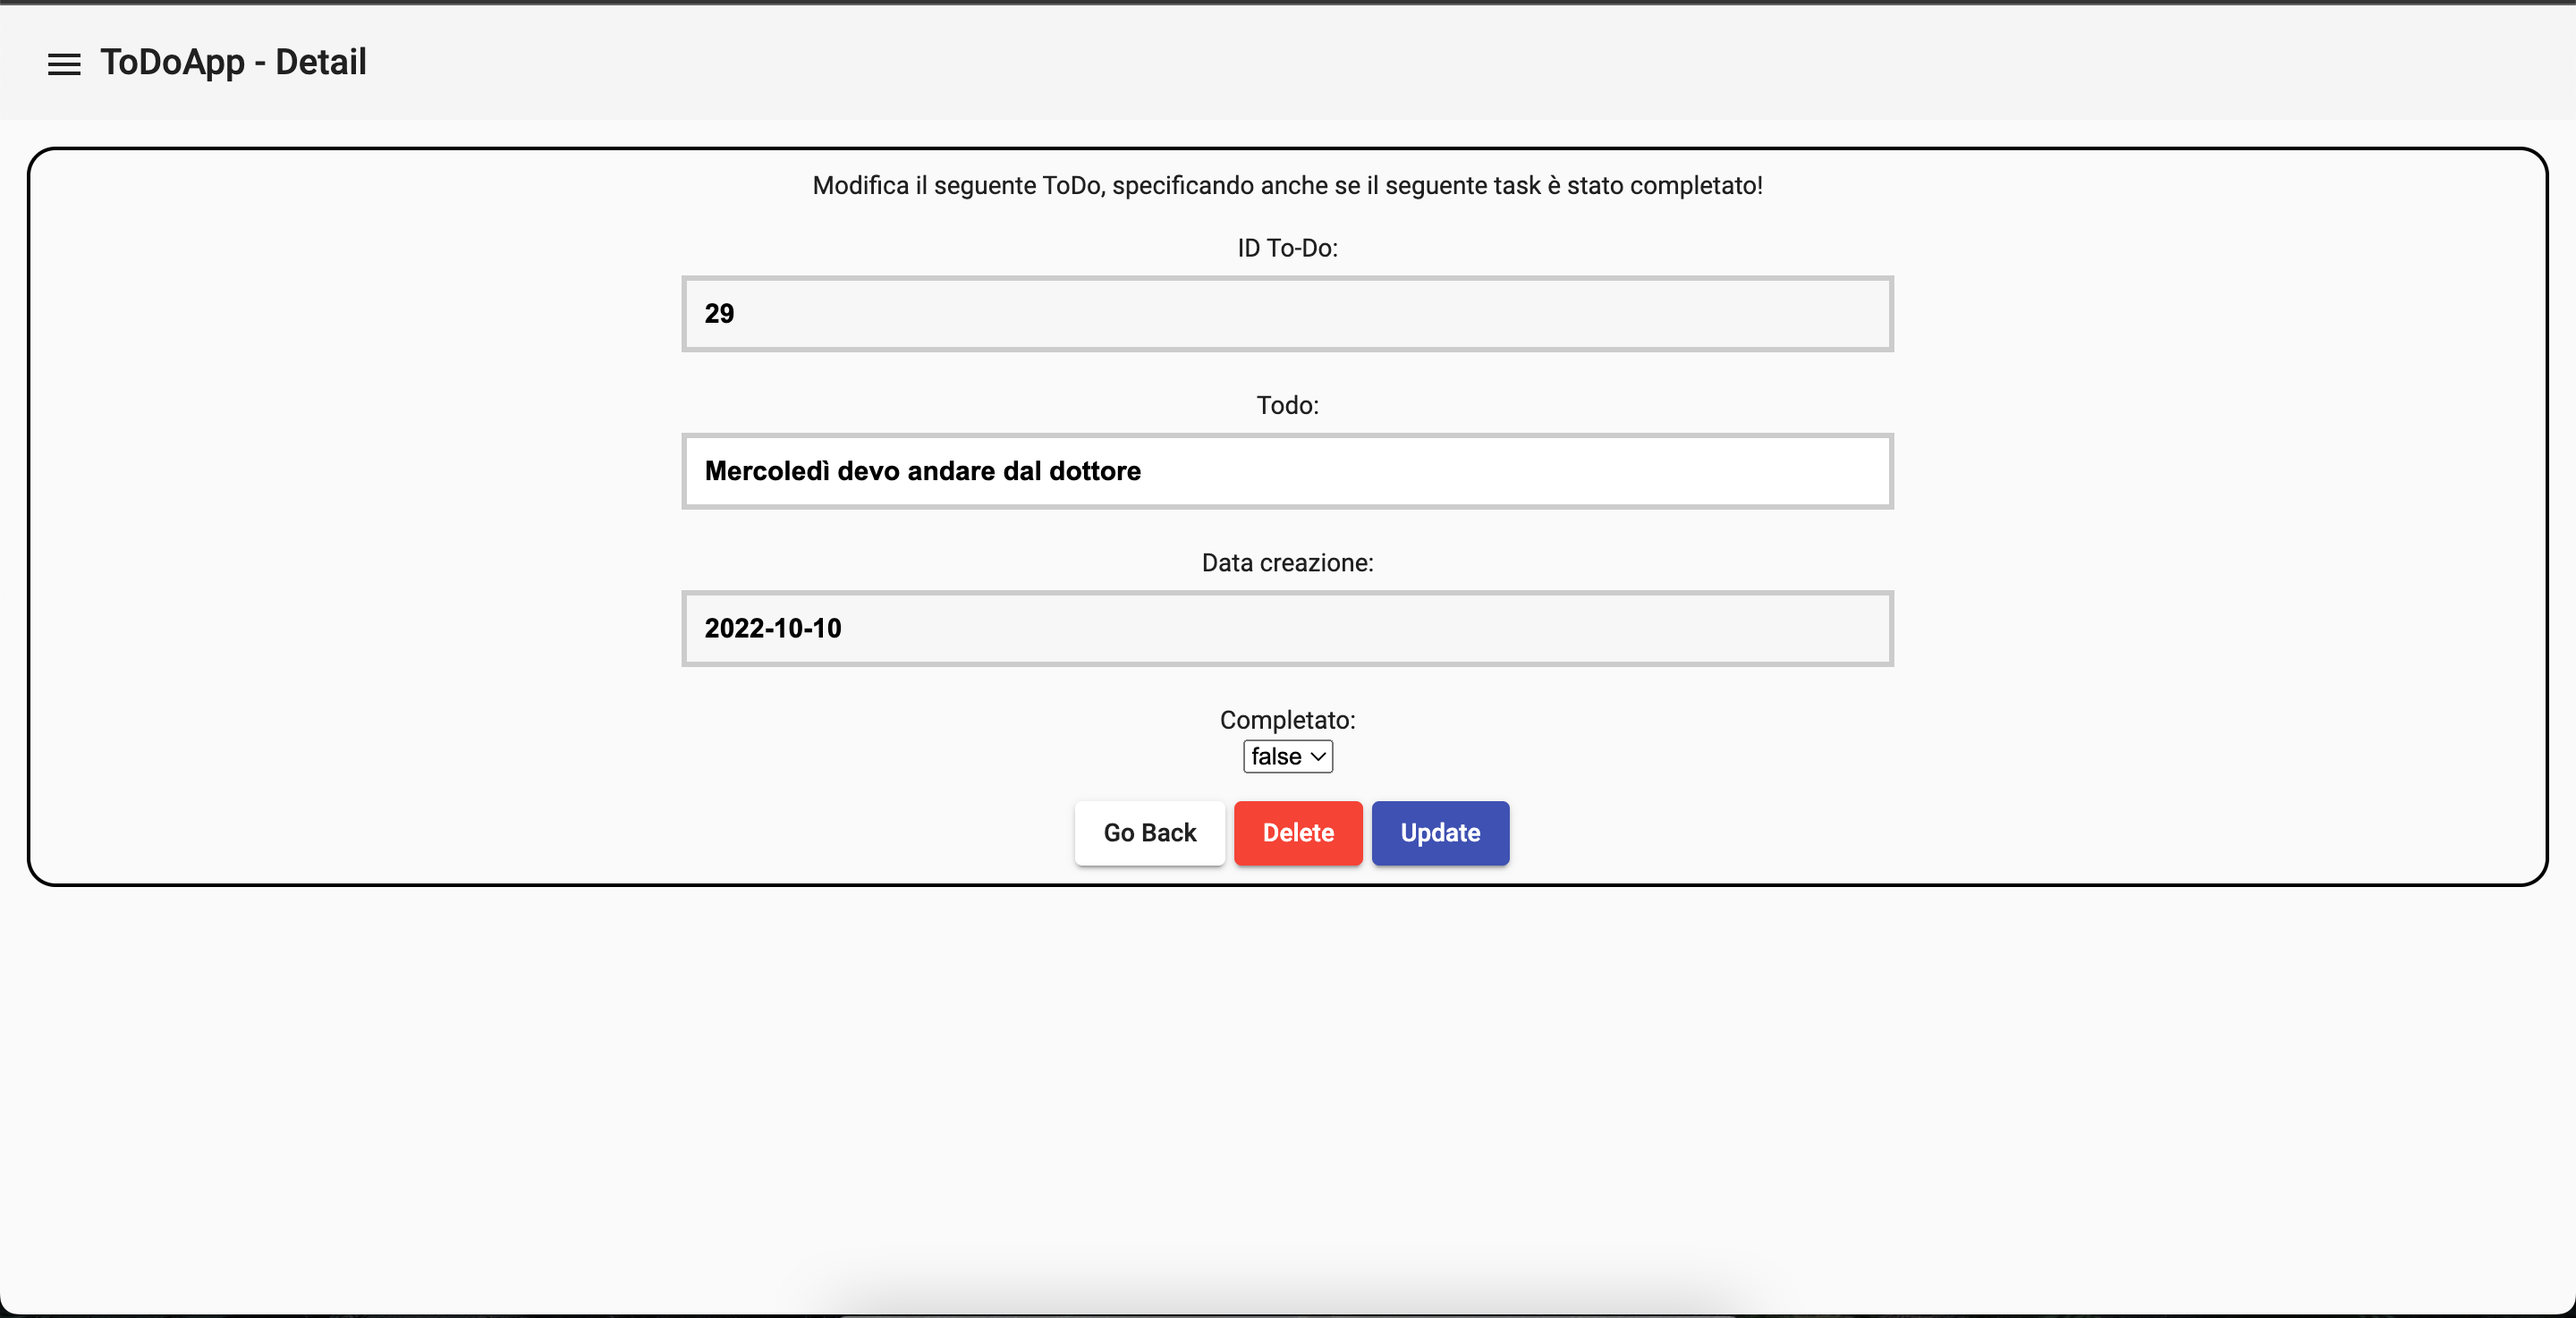
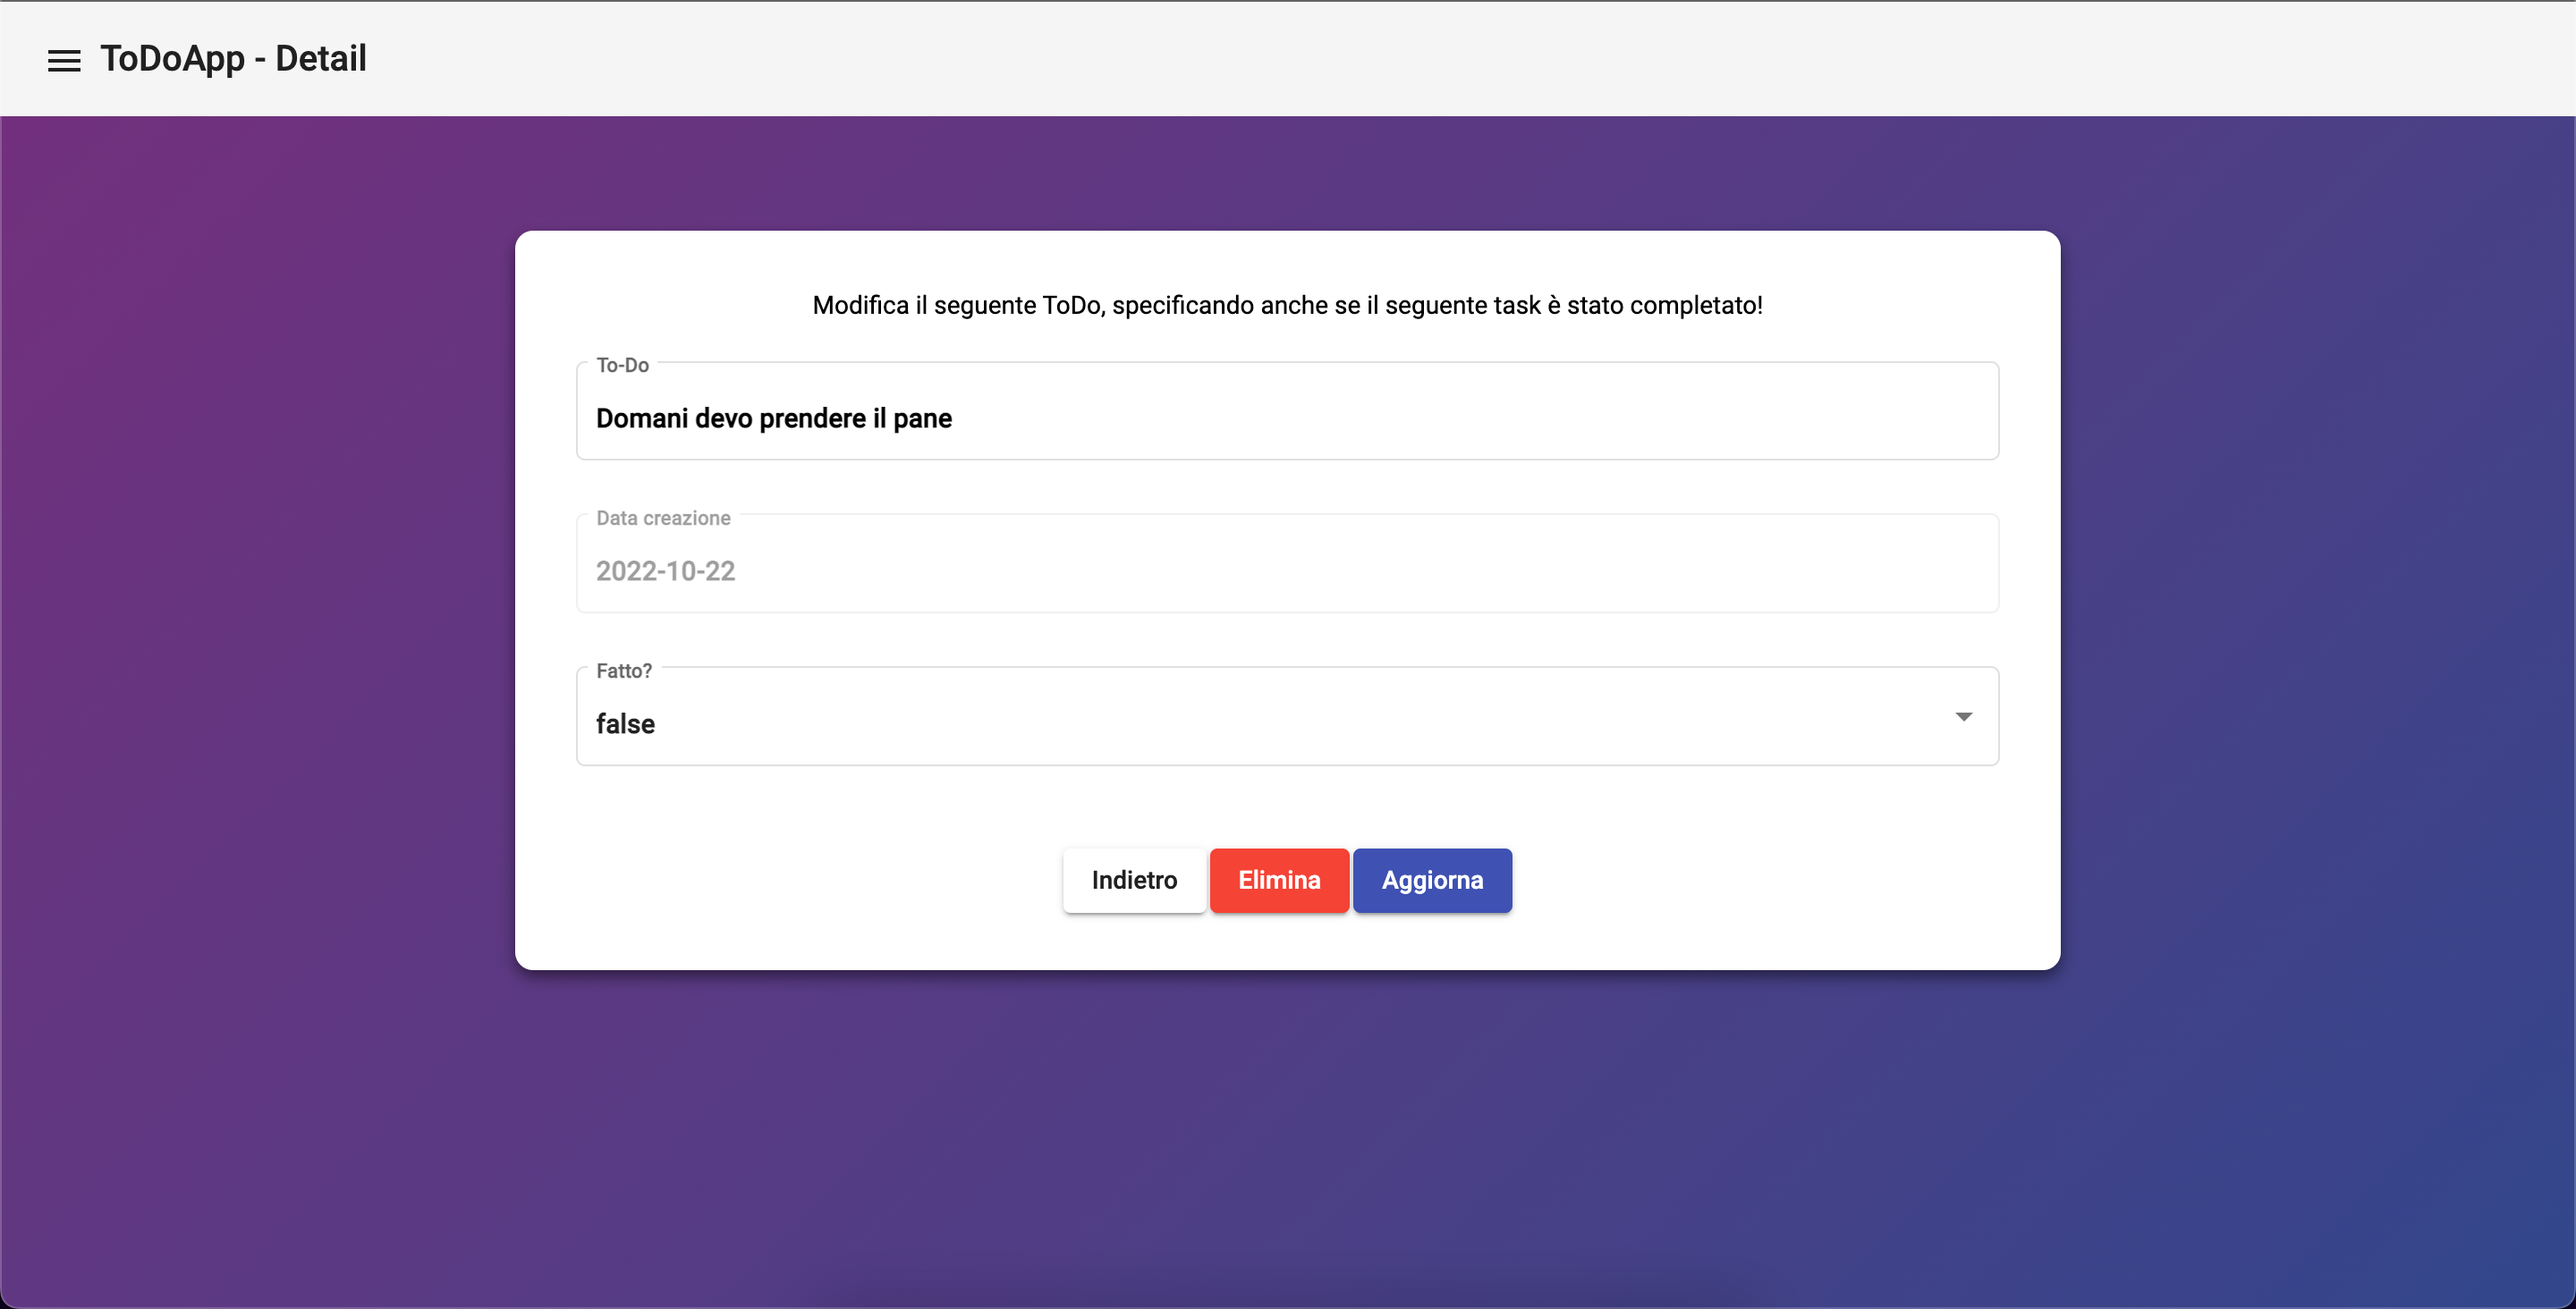
upload new image and update README.md

diff --git a/README.md b/README.md
@@ -12,11 +12,11 @@ To create a list of ToDo, you need to create an account.
 After created an account, you will able to:
 
 ## Insert a To-Do
-![Poster 1](media/README%20IMAGE/InsertToDoScreen.png)
+![Insert To-Do](./media/README%20IMAGE/InsertToDoScreen.png)
 This section allows you to create a To-Do. The send button works if you logged in your account. 
 
 ## See all To-Do
-![Poster 1](media/README%20IMAGE/allToDoScreen.png)
+![All To-Do](./media/README%20IMAGE/allToDoScreen.png)
 This section allows you to see the own To-Do List. Each To-Do element has a background color: 
 - `Green` means that this task is completed; 
 - `Red` means that this task isn't completed yet.
@@ -27,7 +27,7 @@ Other thing is the Tab on top the To-Do List:
 - `Completati tab` is the section where you can see all the completed To-Do;
 
 ## Edit a To-Do
-![Poster 1](media/README%20IMAGE/DetailToDo.png)
+![Detail To-Do](./media/README%20IMAGE/DetailToDo.png)
 This section allows you to edit a To-Do selected from the list:
 - `Update` button: update status and/or text;
 - `Delete` button: delete the To-Do from DB; 
@@ -35,13 +35,13 @@ This section allows you to edit a To-Do selected from the list:
 
 ## How sign-in/sign up?
 On the toolbar, there's the menu icon. after clicking, it appears a SideNav. 
-![Poster 1](media/README%20IMAGE/Login.png)
+![Menu](./media/README%20IMAGE/LoginMenu.png)
 
 ### Login page
-![Poster 1](/media/README%20IMAGE/LoginToDoScreen.png)
+![Login](./media/README%20IMAGE/Login.png)
 
 ### Sign-up
-![Poster 1](media/README%20IMAGE/SignUPScreen.png)
+![Sign-up](.7media/README%20IMAGE/SignUPScreen.png)
 
 
 ## Development server
